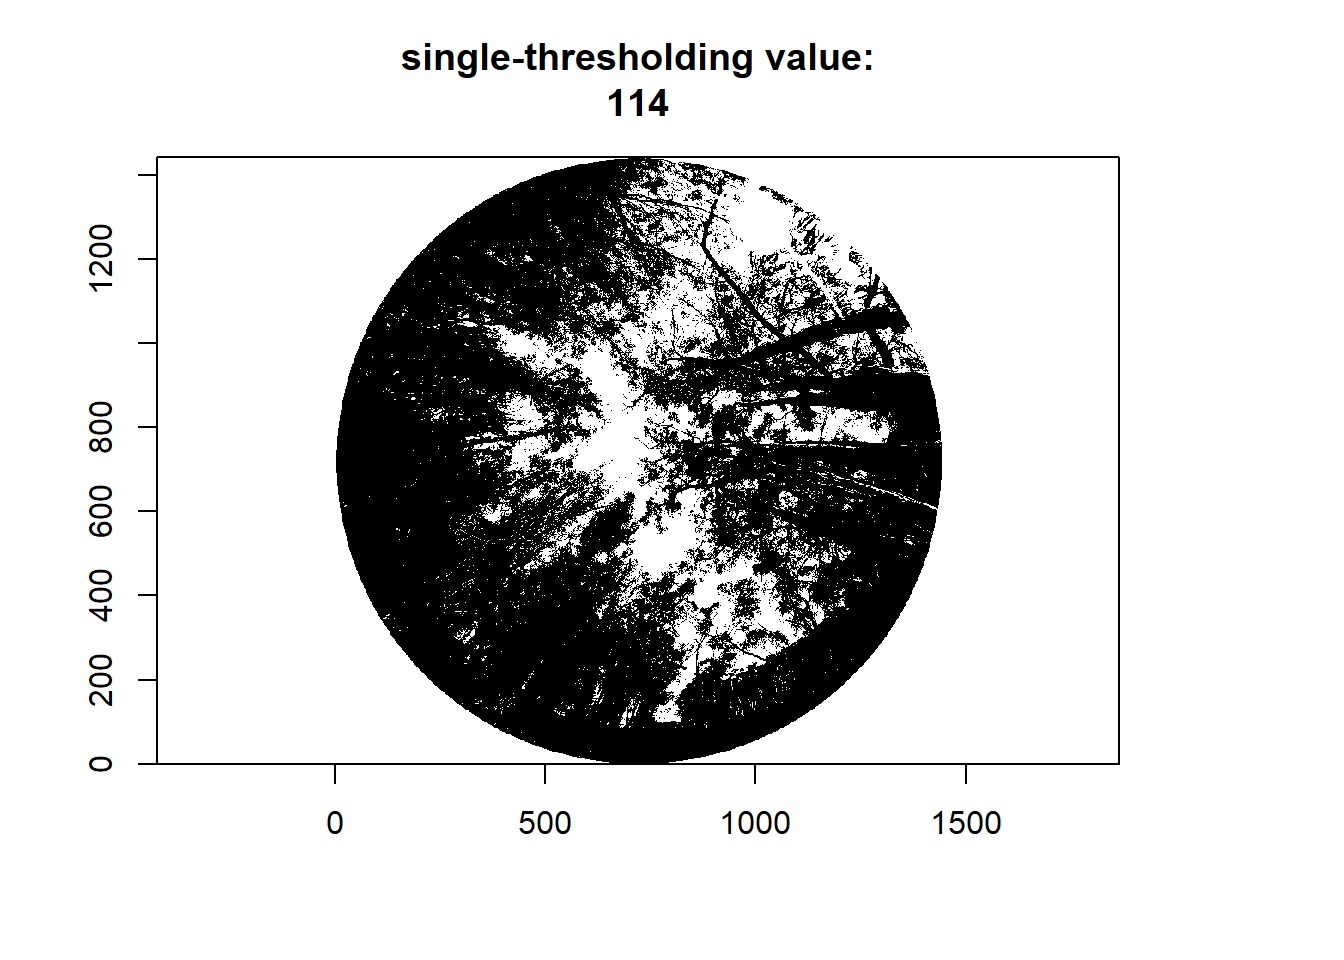
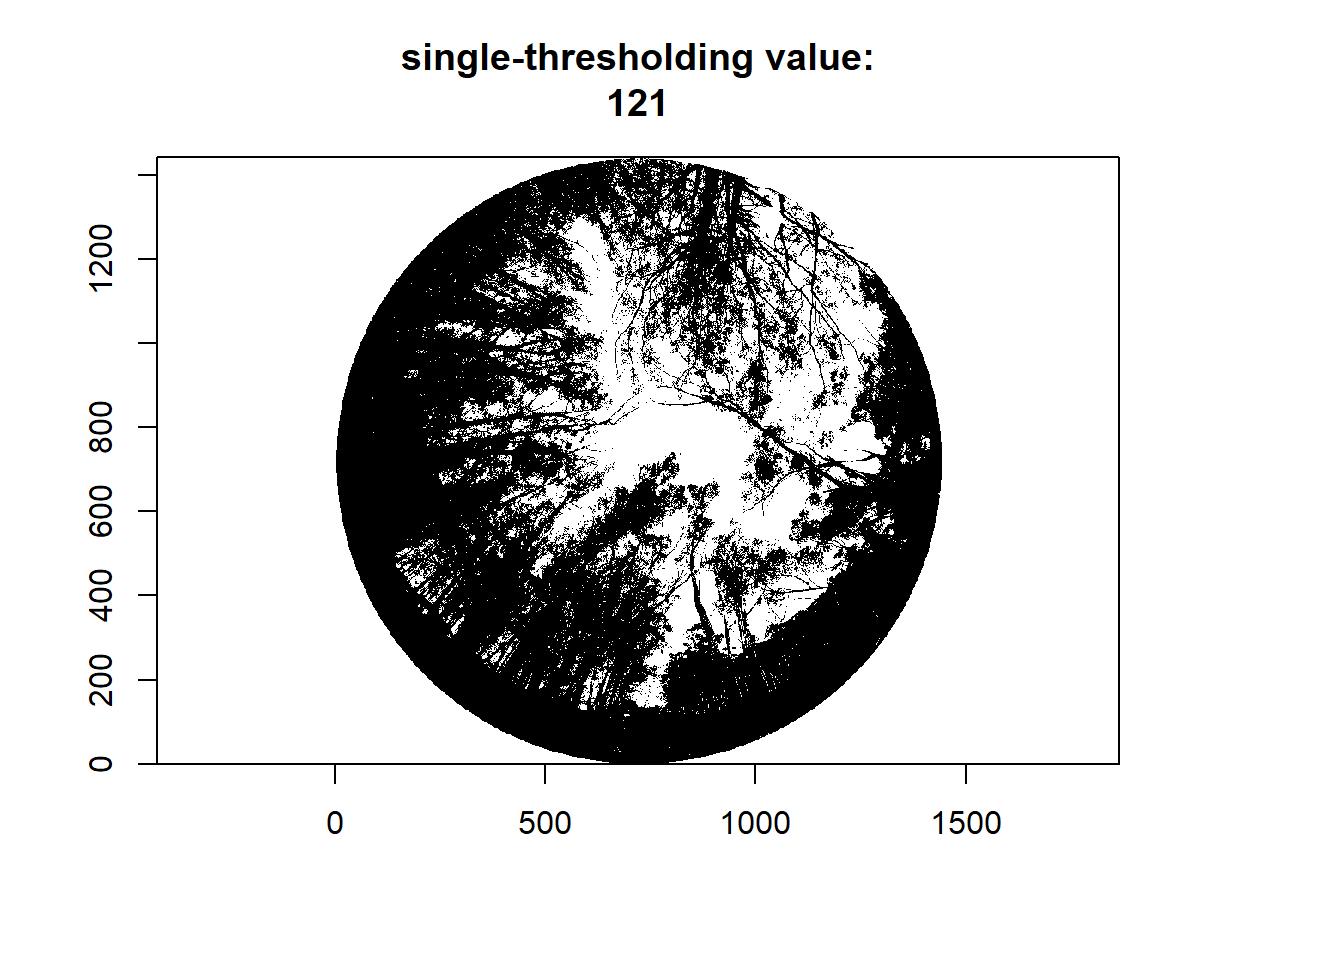
minor changes to script
6ft -> 2m
southern part of the northern grove

diff --git a/content/posts/2022-04-30-canopy-cover-from-spherical-photos/index.en-us.html b/content/posts/2022-04-30-canopy-cover-from-spherical-photos/index.en-us.html
@@ -46,10 +46,10 @@ library(exifr)
 library(dplyr)</code></pre>
 <div id="data-capture" class="section level2">
 <h2>Data Capture</h2>
-<p>Data was captured by me (Sam Ericksen) using a GoPro 360 camera on a 6’ pole while walking through the Coastal Access Monarch Butterfly Preserve in Los Osos, California. The area, can be seen here:</p>
+<p>Data was captured by me (Sam Ericksen) using a GoPro 360 camera on a 2m pole while walking through the Coastal Access Monarch Butterfly Preserve in Los Osos, California. The area, can be seen here:</p>
 <div id="htmlwidget-1" style="width:672px;height:480px;" class="leaflet html-widget"></div>
 <script type="application/json" data-for="htmlwidget-1">{"x":{"options":{"crs":{"crsClass":"L.CRS.EPSG3857","code":null,"proj4def":null,"projectedBounds":null,"options":{}}},"calls":[{"method":"addTiles","args":["https://{s}.tile.openstreetmap.org/{z}/{x}/{y}.png",null,null,{"minZoom":0,"maxZoom":18,"tileSize":256,"subdomains":"abc","errorTileUrl":"","tms":false,"noWrap":false,"zoomOffset":0,"zoomReverse":false,"opacity":1,"zIndex":1,"detectRetina":false,"attribution":"&copy; <a href=\"https://openstreetmap.org\">OpenStreetMap<\/a> contributors, <a href=\"https://creativecommons.org/licenses/by-sa/2.0/\">CC-BY-SA<\/a>"}]},{"method":"addMarkers","args":[35.3119818864144,-120.859574336949,null,null,null,{"interactive":true,"draggable":false,"keyboard":true,"title":"","alt":"","zIndexOffset":0,"opacity":1,"riseOnHover":false,"riseOffset":250},null,null,null,null,null,{"interactive":false,"permanent":false,"direction":"auto","opacity":1,"offset":[0,0],"textsize":"10px","textOnly":false,"className":"","sticky":true},null]}],"limits":{"lat":[35.3119818864144,35.3119818864144],"lng":[-120.859574336949,-120.859574336949]}},"evals":[],"jsHooks":[]}</script>
-<p>capture occurred over the course of a few hours, and involved grid lining out the northern grove on foot. The path of capture can be seen below.</p>
+<p>capture occurred over the course of a few hours, and involved grid lining out the southern half of the northern grove on foot. The path of capture can be seen below.</p>
 <pre class="r"><code>tracks &lt;- read_sf(&quot;PathShape/Euc_Forest_path.shp&quot;)
 
 tracks &lt;- st_zm(tracks) #drop z dimension
@@ -233,6 +233,13 @@ test_masked_FE &lt;- lapply(test_fisheye_paths,
 <pre><code>## Used parameters xc, yc and rc are, 721, 721, 718
 ## Used parameters xc, yc and rc are, 721, 721, 718</code></pre>
 <p><img src="/posts/2022-04-30-canopy-cover-from-spherical-photos/index.en-us_files/figure-html/Gap%20Fration-1.png" width="672" style="display: block; margin: auto;" /><img src="/posts/2022-04-30-canopy-cover-from-spherical-photos/index.en-us_files/figure-html/Gap%20Fration-2.png" width="672" style="display: block; margin: auto;" /></p>
+<pre class="r"><code># for (lens in list.lenses){
+#   gapfrac_fisheye(test_bi_FE[[1]],
+#                   lens = lens,
+#                   display = TRUE,
+#                   nseg = 1,
+#                   nrings = 1)
+# } </code></pre>
 </div>
 <div id="leaf-area-index" class="section level3">
 <h3>Leaf Area Index</h3>
@@ -253,24 +260,24 @@ test_masked_FE &lt;- lapply(test_fisheye_paths,
 </thead>
 <tbody>
 <tr class="odd">
-<td align="left">GSAH3027.JPG</td>
-<td align="right">0.85</td>
-<td align="right">0.85</td>
+<td align="left">GSAH3009.JPG</td>
+<td align="right">1.69</td>
+<td align="right">1.69</td>
 <td align="right">1</td>
 <td align="right">1</td>
 <td align="right">1</td>
-<td align="right">59.654</td>
-<td align="right">69</td>
+<td align="right">35.722</td>
+<td align="right">64</td>
 </tr>
 <tr class="even">
-<td align="left">GSAH3001.JPG</td>
-<td align="right">2.20</td>
-<td align="right">2.20</td>
+<td align="left">GSAH3006.JPG</td>
+<td align="right">1.72</td>
+<td align="right">1.72</td>
 <td align="right">1</td>
 <td align="right">1</td>
 <td align="right">1</td>
-<td align="right">26.095</td>
-<td align="right">77</td>
+<td align="right">35.003</td>
+<td align="right">69</td>
 </tr>
 </tbody>
 </table>
